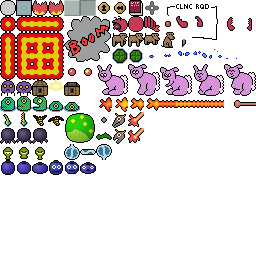
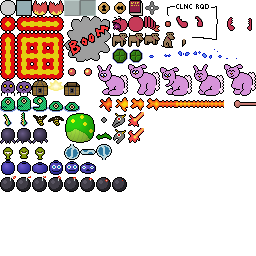
Bomber

Changed region(s): [[0.0, 0.6875, 0.5, 0.75]]

diff --git a/src/game/sprites/ps_sprite_hero_action.c b/src/game/sprites/ps_sprite_hero_action.c
@@ -14,6 +14,7 @@
 #include "scenario/ps_blueprint.h"
 
 #define PS_HERO_MARTYR_EXPLOSION_SPRDEFID 7
+#define PS_HERO_BOMB_SPRDEFID 25
 
 #define SPR ((struct ps_sprite_hero*)spr)
 
@@ -304,6 +305,32 @@ static int ps_hero_martyr(struct ps_sprite *spr,struct ps_game *game) {
   return 0;
 }
 
+/* Bomb.
+ */
+
+static int ps_hero_bomb(struct ps_sprite *spr,struct ps_game *game) {
+
+  struct ps_sprdef *sprdef=ps_res_get(PS_RESTYPE_SPRDEF,PS_HERO_BOMB_SPRDEFID);
+  if (!sprdef) {
+    ps_log(GAME,ERROR,"sprdef:%d not found for bomb",PS_HERO_BOMB_SPRDEFID);
+    return -1;
+  }
+  
+  int x=spr->x;
+  int y=spr->y;
+  switch (SPR->facedir) {
+    case PS_DIRECTION_NORTH: y-=PS_TILESIZE; break;
+    case PS_DIRECTION_SOUTH: y+=PS_TILESIZE; break;
+    case PS_DIRECTION_WEST: x-=PS_TILESIZE; break;
+    case PS_DIRECTION_EAST: x+=PS_TILESIZE; break;
+  }
+  
+  struct ps_sprite *bomb=ps_sprdef_instantiate(game,sprdef,0,0,x,y);
+  if (!bomb) return -1;
+
+  return 0;
+}
+
 /* Frog.
  * TODO Frog skill probably doesn't need to exist.
  */
@@ -332,7 +359,7 @@ static int ps_hero_action_begin_1(struct ps_sprite *spr,struct ps_game *game,int
     case PS_HERO_ACTION_HOOKSHOT: return ps_hero_hookshot_begin(spr,game);
     case PS_HERO_ACTION_FLAME: return ps_hero_flame_begin(spr,game);
     case PS_HERO_ACTION_HEAL: return ps_hero_action_heal(spr,game);
-    case PS_HERO_ACTION_CARRY: return ps_hero_carry_begin(spr,game);
+    case PS_HERO_ACTION_BOMB: return ps_hero_bomb(spr,game);
     case PS_HERO_ACTION_FLY: return ps_hero_fly_begin(spr,game);
     case PS_HERO_ACTION_MARTYR: return ps_hero_martyr(spr,game);
     case PS_HERO_ACTION_FROG: return ps_hero_frog(spr,game);
@@ -345,7 +372,6 @@ static int ps_hero_action_end_1(struct ps_sprite *spr,struct ps_game *game,int a
     case PS_HERO_ACTION_SWORD: return ps_hero_sword_end(spr,game);
     case PS_HERO_ACTION_HOOKSHOT: return ps_hero_hookshot_end(spr,game);
     case PS_HERO_ACTION_FLAME: return ps_hero_flame_end(spr,game);
-    case PS_HERO_ACTION_CARRY: return ps_hero_carry_end(spr,game);
     case PS_HERO_ACTION_FLY: return ps_hero_fly_end(spr,game);
   }
   return 0;
@@ -398,7 +424,7 @@ int ps_hero_auxaction_continue(struct ps_sprite *spr,struct ps_game *game) {
   PS_SKILL_HOOKSHOT| \
   PS_SKILL_FLAME| \
   PS_SKILL_HEAL| \
-  PS_SKILL_CARRY| \
+  PS_SKILL_BOMB| \
   PS_SKILL_FLY| \
   PS_SKILL_MARTYR| \
   PS_SKILL_FROG| \
@@ -413,7 +439,7 @@ int ps_hero_get_principal_action(const struct ps_sprite *spr) {
     case PS_SKILL_HOOKSHOT: return PS_HERO_ACTION_HOOKSHOT;
     case PS_SKILL_FLAME: return PS_HERO_ACTION_FLAME;
     case PS_SKILL_HEAL: return PS_HERO_ACTION_HEAL;
-    case PS_SKILL_CARRY: return PS_HERO_ACTION_CARRY;
+    case PS_SKILL_BOMB: return PS_HERO_ACTION_BOMB;
     case PS_SKILL_FLY: return PS_HERO_ACTION_FLY;
     case PS_SKILL_MARTYR: return PS_HERO_ACTION_MARTYR;
     case PS_SKILL_FROG: return PS_HERO_ACTION_FROG;
@@ -430,7 +456,7 @@ int ps_hero_get_auxiliary_action(const struct ps_sprite *spr) {
     case PS_SKILL_HOOKSHOT: return PS_HERO_ACTION_HOOKSHOT;
     case PS_SKILL_FLAME: return PS_HERO_ACTION_FLAME;
     case PS_SKILL_HEAL: return PS_HERO_ACTION_HEAL;
-    case PS_SKILL_CARRY: return PS_HERO_ACTION_CARRY;
+    case PS_SKILL_BOMB: return PS_HERO_ACTION_BOMB;
     case PS_SKILL_FLY: return PS_HERO_ACTION_FLY;
     case PS_SKILL_MARTYR: return PS_HERO_ACTION_MARTYR;
     case PS_SKILL_FROG: return PS_HERO_ACTION_FROG;

diff --git a/src/game/sprites/ps_sprite_bomb.c b/src/game/sprites/ps_sprite_bomb.c
@@ -1,0 +1,139 @@
+/* ps_sprite_bomb.c
+ * Counts down then explodes.
+ * Optionally start with an arcing toss.
+ */
+
+#include "ps.h"
+#include "game/ps_sprite.h"
+#include "game/ps_game.h"
+#include "game/ps_sound_effects.h"
+#include "akgl/akgl.h"
+#include "res/ps_resmgr.h"
+
+#define PS_BOMB_DEFAULT_TIME 120
+#define PS_BOMB_EXPLOSION_SPRDEFID 7
+
+/* Private sprite object.
+ */
+
+struct ps_sprite_bomb {
+  struct ps_sprite hdr;
+  int counter;
+  int countermax;
+  int finished;
+};
+
+#define SPR ((struct ps_sprite_bomb*)spr)
+
+/* Delete.
+ */
+
+static void _ps_bomb_del(struct ps_sprite *spr) {
+}
+
+/* Initialize.
+ */
+
+static int _ps_bomb_init(struct ps_sprite *spr) {
+
+  SPR->counter=0;
+  SPR->countermax=PS_BOMB_DEFAULT_TIME;
+
+  return 0;
+}
+
+/* Configure.
+ */
+
+static int _ps_bomb_configure(struct ps_sprite *spr,struct ps_game *game,const int *argv,int argc,const struct ps_sprdef *sprdef) {
+  return 0;
+}
+
+static const char *_ps_bomb_get_configure_argument_name(int argp) {
+  // Very short descriptions of arguments to _ps_bomb_configure(), for editor.
+  return 0;
+}
+
+/* Explode.
+ */
+
+static int ps_bomb_explode(struct ps_sprite *spr,struct ps_game *game) {
+  ps_log(GAME,TRACE,"%s",__func__);
+  if (SPR->finished) return 0;
+  SPR->finished=1;
+
+  PS_SFX_EXPLODE
+  struct ps_sprdef *sprdef=ps_res_get(PS_RESTYPE_SPRDEF,PS_BOMB_EXPLOSION_SPRDEFID);
+  if (!sprdef) {
+    ps_log(GAME,ERROR,"sprdef:%d not found for bomb explosion",PS_BOMB_EXPLOSION_SPRDEFID);
+    return -1;
+  }
+  struct ps_sprite *explosion=ps_sprdef_instantiate(game,sprdef,0,0,spr->x,spr->y);
+  if (!explosion) return -1;
+  
+  if (ps_sprite_kill_later(spr,game)<0) return -1;
+  return 0;
+}
+
+/* Update.
+ */
+
+static int _ps_bomb_update(struct ps_sprite *spr,struct ps_game *game) {
+
+  if (++(SPR->counter)>=SPR->countermax) {
+    return ps_bomb_explode(spr,game);
+  }
+
+  return 0;
+}
+
+/* Draw.
+ */
+
+static int _ps_bomb_draw(struct akgl_vtx_maxtile *vtxv,int vtxa,struct ps_sprite *spr) {
+  if (vtxa<1) return 1;
+  
+  vtxv->x=spr->x;
+  vtxv->y=spr->y;
+  vtxv->size=PS_TILESIZE;
+  vtxv->ta=0;
+  vtxv->pr=vtxv->pg=vtxv->pb=0x80;
+  vtxv->a=0xff;
+  vtxv->t=0;
+  vtxv->xform=AKGL_XFORM_NONE;
+
+  int frame=(SPR->counter*8)/SPR->countermax;
+  if (frame<0) frame=0; else if (frame>7) frame=7;
+  vtxv->tileid=spr->tileid+frame;
+  
+  return 1;
+}
+
+/* Hurt.
+ */
+
+static int _ps_bomb_hurt(struct ps_game *game,struct ps_sprite *spr,struct ps_sprite *assailant) {
+  return ps_bomb_explode(spr,game);
+}
+
+/* Type definition.
+ */
+
+const struct ps_sprtype ps_sprtype_bomb={
+  .name="bomb",
+  .objlen=sizeof(struct ps_sprite_bomb),
+
+  .radius=PS_TILESIZE>>1,
+  .shape=PS_SPRITE_SHAPE_CIRCLE,
+  .layer=100,
+
+  .init=_ps_bomb_init,
+  .del=_ps_bomb_del,
+  .configure=_ps_bomb_configure,
+  .get_configure_argument_name=_ps_bomb_get_configure_argument_name,
+  .update=_ps_bomb_update,
+  .draw=_ps_bomb_draw,
+  
+  .hurt=_ps_bomb_hurt,
+
+};

diff --git a/src/util/ps_enums.c b/src/util/ps_enums.c
@@ -90,12 +90,12 @@ int ps_skill_eval(const char *src,int srcc) {
     case 4: {
         if (!ps_memcasecmp(src,"HEAL",4)) return PS_SKILL_HEAL;
         if (!ps_memcasecmp(src,"FROG",4)) return PS_SKILL_FROG;
+        if (!ps_memcasecmp(src,"BOMB",4)) return PS_SKILL_BOMB;
       } break;
     case 5: {
         if (!ps_memcasecmp(src,"SWORD",5)) return PS_SKILL_SWORD;
         if (!ps_memcasecmp(src,"ARROW",5)) return PS_SKILL_ARROW;
         if (!ps_memcasecmp(src,"FLAME",5)) return PS_SKILL_FLAME;
-        if (!ps_memcasecmp(src,"CARRY",5)) return PS_SKILL_CARRY;
         if (!ps_memcasecmp(src,"SPEED",5)) return PS_SKILL_SPEED;
       } break;
     case 6: {
@@ -125,7 +125,7 @@ const char *ps_skill_repr(uint16_t skill) {
     case PS_SKILL_FLAME: return "FLAME";
     case PS_SKILL_HEAL: return "HEAL";
     case PS_SKILL_IMMORTAL: return "IMMORTAL";
-    case PS_SKILL_CARRY: return "CARRY";
+    case PS_SKILL_BOMB: return "BOMB";
     case PS_SKILL_FLY: return "FLY";
     case PS_SKILL_MARTYR: return "MARTYR";
     case PS_SKILL_SPEED: return "SPEED";

diff --git a/src/game/ps_sprtype.c b/src/game/ps_sprtype.c
@@ -33,6 +33,7 @@ const struct ps_sprtype *ps_sprtype_by_name(const char *name,int namec) {
   if ((namec==6)&&!memcmp(name,"turtle",6)) return &ps_sprtype_turtle;
   if ((namec==6)&&!memcmp(name,"dragon",6)) return &ps_sprtype_dragon;
   if ((namec==5)&&!memcmp(name,"toast",5)) return &ps_sprtype_toast;
+  if ((namec==4)&&!memcmp(name,"bomb",4)) return &ps_sprtype_bomb;
 //INSERT SPRTYPE NAME TEST HERE
 
   return 0;
@@ -66,5 +67,6 @@ const struct ps_sprtype *ps_all_sprtypes[]={
   &ps_sprtype_turtle,
   &ps_sprtype_dragon,
   &ps_sprtype_toast,
+  &ps_sprtype_bomb,
 //INSERT SPRTYPE REFERENCE HERE
 0};

diff --git a/src/game/sprites/ps_sprite_hero.h b/src/game/sprites/ps_sprite_hero.h
@@ -73,7 +73,7 @@ int ps_hero_set_dragon_charge(struct ps_sprite *spr,int p,int c);
 #define PS_HERO_ACTION_HOOKSHOT     3
 #define PS_HERO_ACTION_FLAME        4
 #define PS_HERO_ACTION_HEAL         5
-#define PS_HERO_ACTION_CARRY        6
+#define PS_HERO_ACTION_BOMB         6
 #define PS_HERO_ACTION_FLY          7
 #define PS_HERO_ACTION_MARTYR       8
 #define PS_HERO_ACTION_FROG         9

diff --git a/src/game/ps_sprite.h b/src/game/ps_sprite.h
@@ -168,6 +168,7 @@ extern const struct ps_sprtype ps_sprtype_bloodhound;
 extern const struct ps_sprtype ps_sprtype_turtle;
 extern const struct ps_sprtype ps_sprtype_dragon;
 extern const struct ps_sprtype ps_sprtype_toast;
+extern const struct ps_sprtype ps_sprtype_bomb;
 //INSERT SPRTYPE DEFINITION HERE
 
 /* API for sprite types too trivial to warrant their own headers.

diff --git a/src/ps.h b/src/ps.h
@@ -58,7 +58,7 @@
 #define PS_SKILL_FLAME       0x0008
 #define PS_SKILL_HEAL        0x0010
 #define PS_SKILL_IMMORTAL    0x0020
-#define PS_SKILL_CARRY       0x0040 /* Not implemented, might be removed. */
+#define PS_SKILL_BOMB        0x0040
 #define PS_SKILL_FLY         0x0080
 #define PS_SKILL_MARTYR      0x0100
 #define PS_SKILL_SPEED       0x0200

diff --git a/src/test/res/test_res_content.c b/src/test/res/test_res_content.c
@@ -215,7 +215,6 @@ static int count_blueprint_solutions_by_skill() {
   MUST_NOT_HAVE_SOLUTION(FLAME)
   MUST_HAVE_LONE_SOLUTION(HEAL)
   MUST_HAVE_LONE_SOLUTION(IMMORTAL)
-  MUST_NOT_HAVE_SOLUTION(CARRY) /* Because it isn't implemented. */
   MUST_HAVE_LONE_SOLUTION(FLY)
   MUST_NOT_HAVE_SOLUTION(MARTYR)
   MUST_NOT_HAVE_SOLUTION(SPEED)

diff --git a/src/game/sprites/ps_sprite_toast.c b/src/game/sprites/ps_sprite_toast.c
@@ -75,6 +75,7 @@ static int _ps_toast_draw(struct akgl_vtx_maxtile *vtxv,int vtxa,struct ps_sprit
   vtxv->pr=vtxv->pg=vtxv->pb=0x80;
   vtxv->a=0xff;
   vtxv->xform=AKGL_XFORM_NONE;
+  vtxv->t=0;
   return 1;
 }
 
